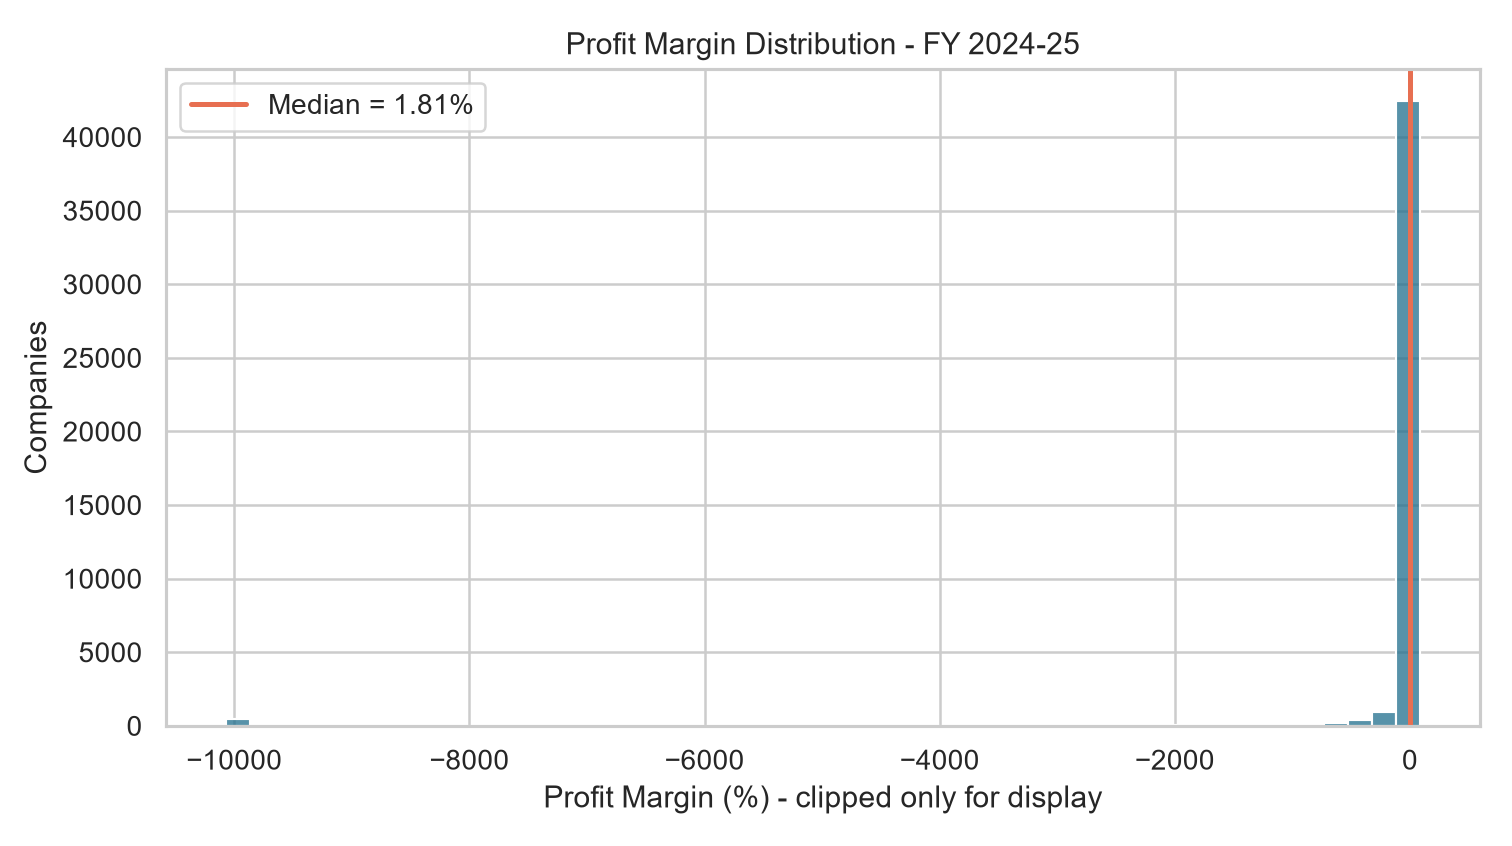
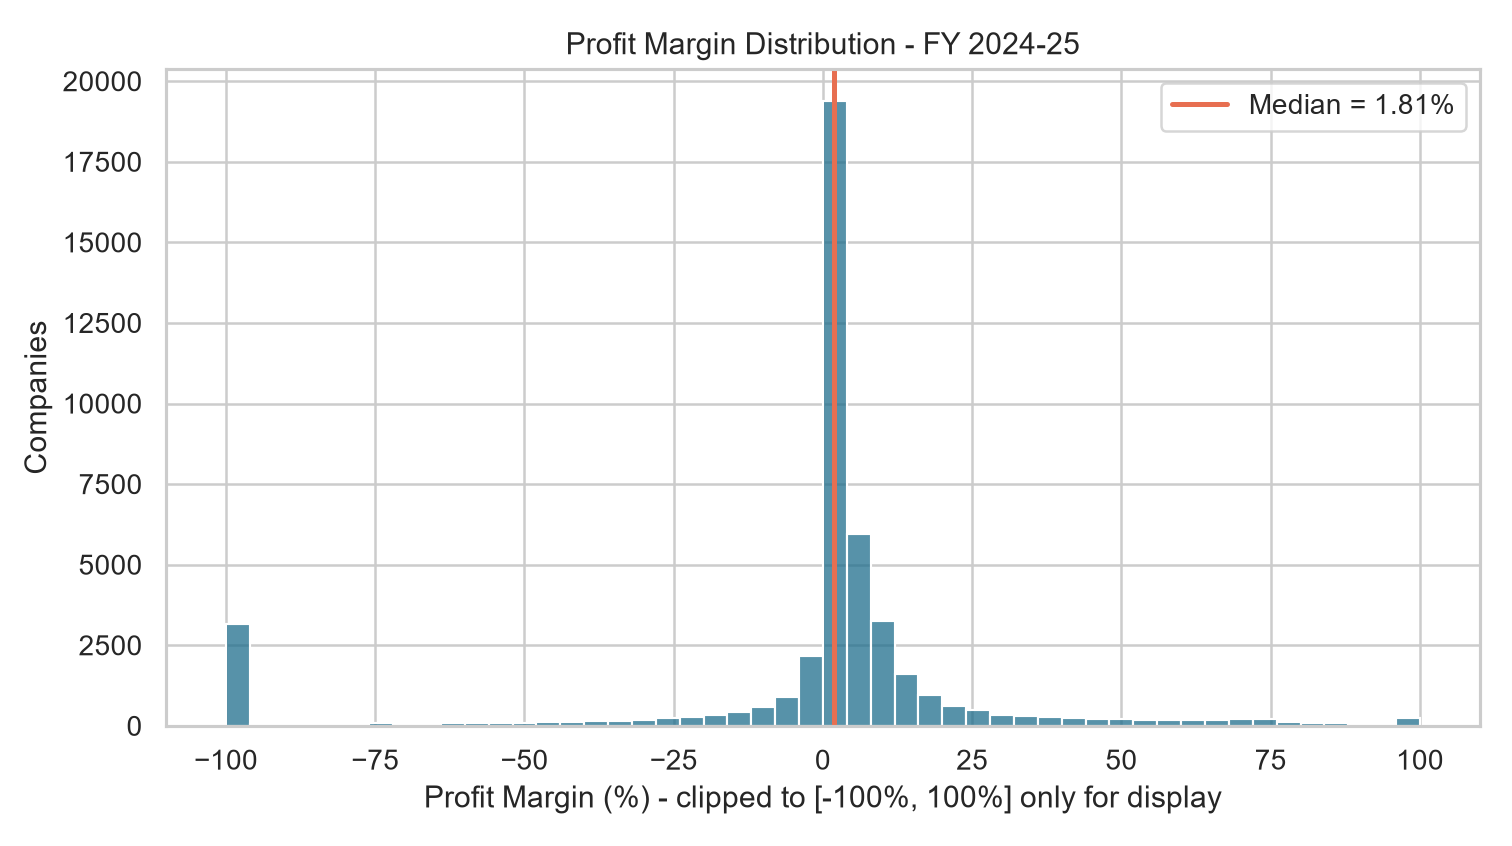
update

diff --git a/analyze_local_finance_data.py b/analyze_local_finance_data.py
@@ -57,11 +57,11 @@ corr = analysis[features].corr(numeric_only=True)
 
 sns.set_theme(style="whitegrid")
 plt.figure(figsize=(8.4, 4.7))
-plot_margin = margin.clip(margin.quantile(.01), margin.quantile(.99))
+plot_margin = margin.clip(-100, 100)
 sns.histplot(plot_margin, bins=50, color="#1F6E8C")
 plt.axvline(margin.median(), color="#E76F51", linewidth=2, label=f"Median = {margin.median():.2f}%")
 plt.title("Profit Margin Distribution - FY 2024-25")
-plt.xlabel("Profit Margin (%) - clipped only for display")
+plt.xlabel("Profit Margin (%) - clipped to [-100%, 100%] only for display")
 plt.ylabel("Companies")
 plt.legend()
 plt.tight_layout()
